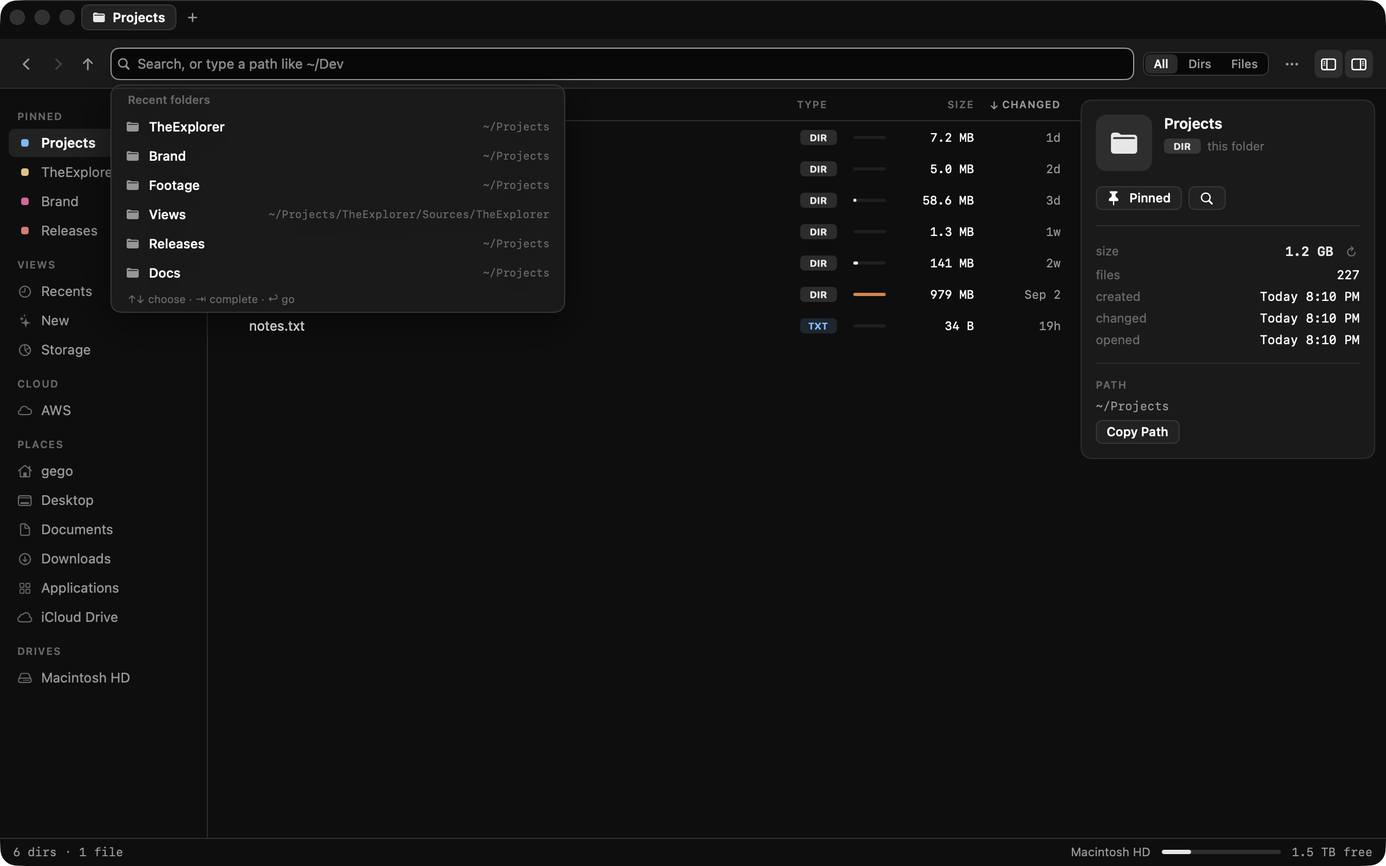
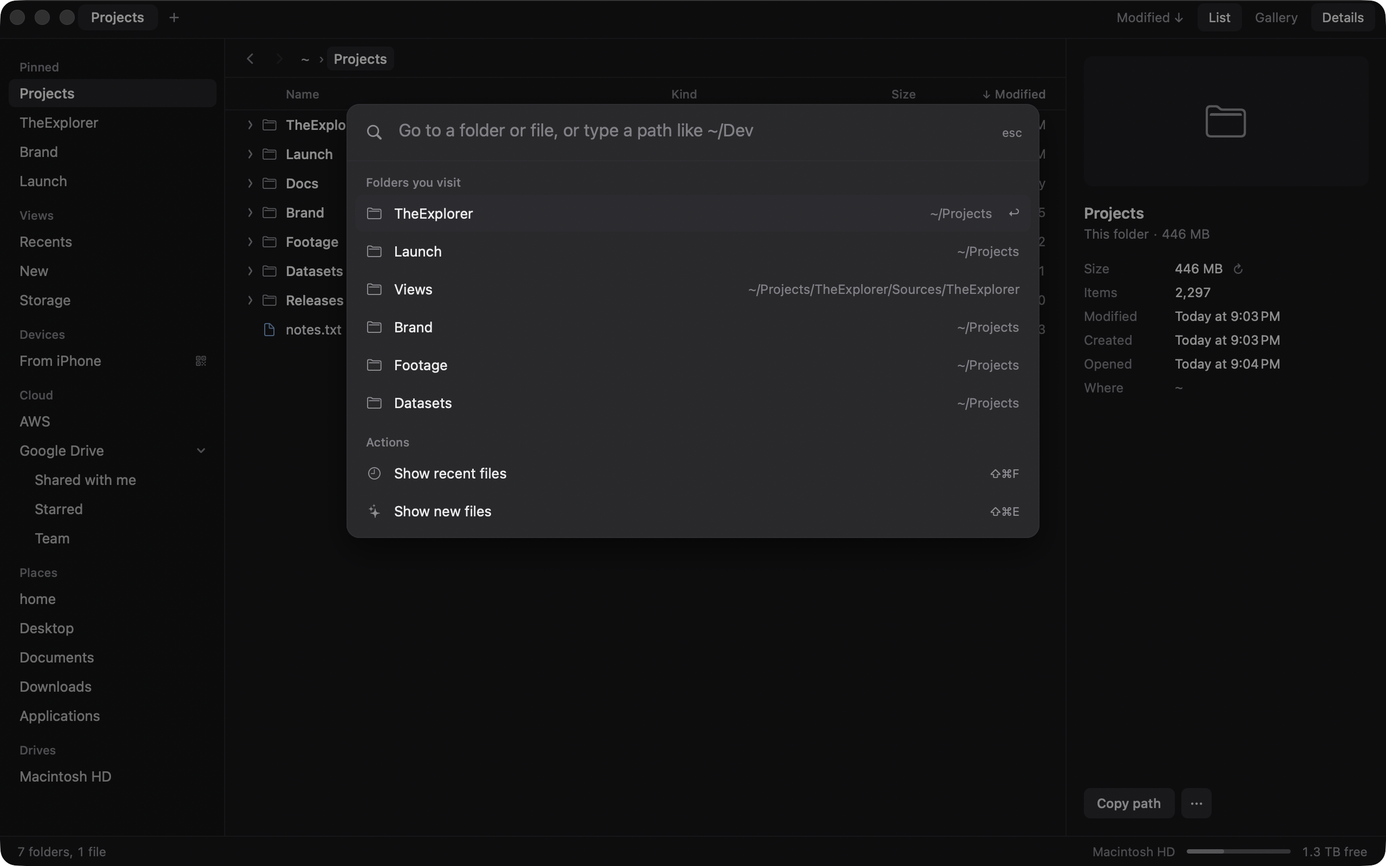
New screenshots, and the README and guide in today's words
Every screenshot retaken in the current design from a demo folder, with
fake S3 and Drive accounts, plus one of Settings › Shortcuts. The text
now says Find and Go anywhere, the path row and the details panel, and
covers video playback with MKV, the active pane, S3 search and changing
shortcuts.

diff --git a/GUIDE.md b/GUIDE.md
@@ -2,13 +2,13 @@
 
 Everything TheExplorer does and how to use it. For building and working on the code, see [DEVELOPMENT.md](DEVELOPMENT.md).
 
-**Contents:** [Folder sizes](#real-folder-sizes) · [Paths and search](#one-bar-for-paths-and-search) · [Gallery](#gallery) · [Previews](#previews-and-zip-archives) · [Storage](#storage-map) · [S3](#s3-like-a-folder) · [Google Drive](#google-drive) · [Actions](#actions) · [Recents and New](#recents-and-new) · [Settings](#settings) · [Everything else](#and-the-rest) · [Permissions](#permissions) · [Keyboard shortcuts](#keyboard-shortcuts)
+**Contents:** [Folder sizes](#real-folder-sizes) · [Find and Go anywhere](#find-and-going-anywhere) · [Gallery](#gallery) · [Previews](#previews-and-zip-archives) · [Storage](#storage-map) · [S3](#s3-like-a-folder) · [Google Drive](#google-drive) · [Actions](#actions) · [Recents and New](#recents-and-new) · [Settings](#settings) · [Everything else](#and-the-rest) · [Permissions](#permissions) · [Keyboard shortcuts](#keyboard-shortcuts)
 
 ## Real folder sizes
 
-Every folder's total size is calculated in the background and drawn as a bar, so the heavy folders stand out. Sizes are kept between launches and stay put until something inside the folder changes (FSEvents says what), so a big folder is only walked again when it needs to be, and at most every few minutes if it never stops changing. Type chips (`DIR`, `SWIFT`, `PDF`, `ZIP`…) tell folders from files at a glance, and you can filter to just folders or just files. Click a folder's arrow (or press →) to expand it in place; double-click still opens it.
+Every folder's total size is calculated in the background, so the heavy folders stand out. Sizes are kept between launches and stay put until something inside the folder changes (FSEvents says what), so a big folder is only walked again when it needs to be, and at most every few minutes if it never stops changing. Each row says what kind of file it is in words, with a small icon tinted by type, and the sort menu (top right) filters to just folders or just files. Click a folder's arrow (or press →) to expand it in place; double-click still opens it.
 
-<img src="docs/screenshots/folder-sizes.png" alt="A folder listing with size bars, type chips and the inspector" width="100%">
+<img src="docs/screenshots/folder-sizes.png" alt="A folder listing with each folder's total size, and the details panel" width="100%">
 
 ## Find, and going anywhere
 
@@ -22,20 +22,20 @@ Search works like a launcher's rather than Spotlight's. TheExplorer keeps its ow
 - **Ranking.** Whole names beat prefixes, prefixes beat word starts, and those beat everything else. Recently opened and recently changed files rise to the top.
 - **Folder words.** Extra words can match the folders a file is in, so `explorer readme` finds the README inside *TheExplorer*.
 - **Recent folders.** TheExplorer learns which folders you work in, the way zoxide does: how often you visit, weighted toward the last hour and day. Passing through a folder doesn't count; staying a moment or opening a file there does. Open ⌘K without typing to see them, or use Go › Recent Folders. They rank higher in search, along with what's in them, so `expl` lands on the project you live in rather than another folder with a similar name, and path completion lists them first.
-- **What's left out.** Library, hidden folders, the insides of apps and packages, dependency folders like `node_modules`, Unity's project caches, and any folder a project's `.gitignore` lists (build output, caches) aren't indexed, though the folders themselves are. Generated hash-named files rank last. To search everything in a folder, go there, show hidden files (⇧⌘.) and search *Here*.
+- **What's left out.** Library, hidden folders, the insides of apps and packages, dependency folders like `node_modules`, Unity's project caches, and any folder a project's `.gitignore` lists (build output, caches) aren't indexed, though the folders themselves are. Generated hash-named files rank last. To search everything in a folder, go there, show hidden files (⇧⌘.) and Find there.
 
 <table>
   <tr>
-    <td width="50%"><img src="docs/screenshots/path-bar.png" alt="Path completion in the command bar"></td>
-    <td width="50%"><img src="docs/screenshots/search.png" alt="Search results with locations"></td>
+    <td width="50%"><img src="docs/screenshots/path-bar.png" alt="Path completion in Go anywhere"></td>
+    <td width="50%"><img src="docs/screenshots/search.png" alt="Find results with where each one is"></td>
   </tr>
   <tr>
     <td align="center"><sub>Jump anywhere with path completion</sub></td>
-    <td align="center"><sub>Search this folder or the whole Mac, typos and all</sub></td>
+    <td align="center"><sub>Find in this folder or the whole Mac, typos and all</sub></td>
   </tr>
 </table>
 
-<img src="docs/screenshots/recent-folders.png" alt="Recent folders listed when the command bar opens" width="100%">
+<img src="docs/screenshots/recent-folders.png" alt="The folders you visit most, listed when Go anywhere opens" width="100%">
 
 ## Gallery
 
@@ -45,7 +45,7 @@ Photos fill their tiles. Videos show how long they are, and folders and other fi
 
 ## Previews and zip archives
 
-Selecting a document, image, PDF, video, audio or code file shows a live preview in the inspector, along with what's inside it:
+Selecting a document, image, PDF, video, audio or code file shows a live preview in the details panel, along with what's inside it:
 - **Images:** dimensions, aspect ratio, color profile, and frame count and length for animations. Camera, lens and exposure appear for photos.
 - **SVGs:** size and viewBox.
 - **Video:** resolution, length, codec (H.264, HEVC, ProRes, AV1…), frame rate, HDR and bitrates.
@@ -65,8 +65,8 @@ For everything else, Space opens Quick Look, and ↑/↓ then step through every
 
 <table>
   <tr>
-    <td width="50%"><img src="docs/screenshots/preview.png" alt="An image previewed in the inspector"></td>
-    <td width="50%"><img src="docs/screenshots/zip.png" alt="A zip archive's contents listed in the inspector"></td>
+    <td width="50%"><img src="docs/screenshots/preview.png" alt="An image previewed in the details panel"></td>
+    <td width="50%"><img src="docs/screenshots/zip.png" alt="A zip archive's contents listed in the details panel"></td>
   </tr>
   <tr>
     <td align="center"><sub>Dimensions, color and more for images</sub></td>
@@ -79,7 +79,7 @@ For everything else, Space opens Quick Look, and ↑/↓ then step through every
 <table>
   <tr>
     <td width="50%"><img src="docs/screenshots/markdown.png" alt="A Markdown file rendered over the window"></td>
-    <td width="50%"><img src="docs/screenshots/json.png" alt="A JSON file as a collapsible tree in the inspector"></td>
+    <td width="50%"><img src="docs/screenshots/json.png" alt="A JSON file as a collapsible tree in the details panel"></td>
   </tr>
   <tr>
     <td align="center"><sub>Markdown, rendered</sub></td>
@@ -103,11 +103,11 @@ Send photos from your iPhone over Wi-Fi, with no cable, iCloud or app to install
 
 ## S3, like a folder
 
-Connect S3 in Settings › Cloud and your buckets show up in the sidebar. Browse them like any folder, with the same list, breadcrumbs, back/forward, filtering and inspector.
+Connect S3 in Settings › Cloud and your buckets show up in the sidebar. Browse them like any folder, with the same list, breadcrumbs, back/forward, filtering and details panel.
 
 - **Upload:** drop files or folders onto an S3 folder, a folder row, a breadcrumb or the sidebar connection. Folders upload with everything in them, and big files upload in parallel parts.
 - **Download:** drag S3 items onto Finder, the desktop, or any folder, tab, sidebar place or breadcrumb in TheExplorer, or right-click › Download. Folders come down with everything in them, and a name that's taken gets a number instead of being overwritten. Double-click opens a file and Space previews it.
-- **Previews:** select a file and the inspector previews it without downloading it: the first 32 KB of text files, a frame from about a second into videos (streamed, so only the start of the video is read), and images and PDFs up to 25 and 20 MB read into memory. Bigger photos show the thumbnail embedded at their start. Space downloads the file for the full Quick Look.
+- **Previews:** select a file and the details panel previews it without downloading it: the first 32 KB of text files, a frame from about a second into videos (streamed, so only the start of the video is read), and images and PDFs up to 25 and 20 MB read into memory. Bigger photos show the thumbnail embedded at their start. Space downloads the file for the full Quick Look.
 - **Share and manage:** right-click to copy an `s3://` URI or a share link that works for 7 days, create folders, or delete.
 - **Progress:** the status bar shows progress with Stop for every transfer.
 - **Credentials:** use your AWS CLI profiles as they are. That includes SSO and assumed roles, through `aws configure export-credentials`. Or add access keys, which are kept in your Keychain.
@@ -131,14 +131,14 @@ Google Drive shows up under Cloud in the sidebar once you've signed in. TheExplo
 - **Browsing:** clicking Google Drive in the sidebar opens My Drive. Under it are Shared with me, Starred and each of your shared drives, a click away; the arrow on the account folds them away. Shortcuts open the folder they point to.
 - **Search:** Find (⌘F) in Drive searches the whole account with Drive's own search. Name matches come back first; files that match only inside follow a moment later.
 - **Upload:** drop files or folders onto a Drive folder, a folder row, a breadcrumb or the sidebar account, or paste. Folders upload with everything in them.
-- **Download:** right-click › Download to Downloads (or the inspector's Download button) saves to your Downloads folder, and Download To… asks where. You can also drag items onto Finder, the desktop or any folder in TheExplorer, or press F5 with a local folder in the other pane. The status bar says where each download went; click it for the list, where Show opens the folder with what arrived selected.
+- **Download:** right-click › Download to Downloads (or the details panel's Download button) saves to your Downloads folder, and Download To… asks where. You can also drag items onto Finder, the desktop or any folder in TheExplorer, or press F5 with a local folder in the other pane. The status bar says where each download went; click it for the list, where Show opens the folder with what arrived selected.
 - **Google Docs, Sheets and Slides** download as Word, Excel and PowerPoint files; right-click › Download As offers PDF, Markdown, CSV and the rest. Opening one opens it in your browser, and Space previews it as a PDF. Forms, Sites and My Maps only open in the browser.
-- **Sharing:** right-click › Share… (or the inspector's Share… button) shows everyone with access. Add people by email as viewers, commenters or editors, with or without an email from Google and a message; change someone's role or remove them; and set general access to Restricted, Anyone with the link, or (for Google Workspace accounts) anyone in your organization. Access that comes from a shared drive is shown but changed in the drive, and files only shared with you can't be changed. Making someone else the owner stays in Drive, since Google confirms it by email.
+- **Sharing:** right-click › Share… (or the details panel's Share… button) shows everyone with access. Add people by email as viewers, commenters or editors, with or without an email from Google and a message; change someone's role or remove them; and set general access to Restricted, Anyone with the link, or (for Google Workspace accounts) anyone in your organization. Access that comes from a shared drive is shown but changed in the drive, and files only shared with you can't be changed. Making someone else the owner stays in Drive, since Google confirms it by email.
 - **Moving and copying:** drag Drive items onto another Drive folder to move them; hold ⌥ to copy. Copy and paste works the same way. Drive can't copy folders, so those move or download instead.
 - **Rename, new folder and trash:** ⇧⌘↩, ⇧⌘N and ⌘⌫ work as they do for local files. Trashed items go to Drive's trash, where you can restore them for 30 days.
 - **Links:** right-click › Copy Link copies the Drive link, which opens the item for anyone it's shared with; Open in Browser opens it at drive.google.com.
-- **Previews:** the inspector shows Drive's own thumbnail for images, videos, PDFs, Docs, Sheets and Slides, and the first 32 KB of text files, without downloading anything.
-- **Storage:** the status bar and inspector show how much of your Drive is used.
+- **Previews:** the details panel shows Drive's own thumbnail for images, videos, PDFs, Docs, Sheets and Slides, and the first 32 KB of text files, without downloading anything.
+- **Storage:** the status bar and details panel show how much of your Drive is used.
 
 The client secret and each account's sign-in are kept in your Keychain. Removing an account in Settings also signs it out with Google, and nothing in your Drive is touched.
 
@@ -171,15 +171,16 @@ Commands run in zsh with your login profile, so Homebrew tools like `ffmpeg` are
 - **Default file browser.** Send other apps' "Show in Finder" and "Reveal" buttons to TheExplorer. Revealed items open in a tab with the items selected. macOS keeps Finder for folders opened from the Dock, Spotlight or other apps and doesn't let any app take that over, so Settings shows that too. For those, turn on **Catch Finder windows**: when Finder opens a folder window, TheExplorer closes it and opens the folder in a tab, with the same files selected. That covers the Dock and its stacks, Spotlight, and apps that open downloads or attachments in Finder. Windows that aren't folders, like AirDrop, stay in Finder. It needs permission to control Finder, which macOS asks for once, and it only works while TheExplorer is running.
 - **Terminal.** Choose what "Open in Terminal" (⌃⌘T) uses: Terminal, cmux, Ghostty, iTerm, Warp or any other app. cmux gets a new workspace in the folder.
 - **Defaults.** Where new windows start, sort order, folders first, hidden files, and New's time range and clutter filter.
+- **Shortcuts.** Change any menu command's keys (see [Keyboard shortcuts](#keyboard-shortcuts)).
 
 <br clear="right">
 
 ## And the rest
 
 - **Tabs.** Browser-style tabs, each with its own folder, history and search. Drop files on a tab to move them there. Tabs come back where you left them after you quit.
-- **Split pane.** ⌘/ splits a tab into two folders side by side, each with its own history. Drag the line between them to resize the panes, or double-click it to even them out. The active pane's header is raised and the other pane is dimmed; the path row, Find, sidebar, inspector and menus all act on the active one. Click a pane or press Tab to switch, and a drop makes the pane it lands in active. F5 copies the selection to the other pane's folder and F6 moves it there (also in the right-click menu), or drag between them. View › Swap Panes and Show Same Folder in Other Pane are there too. ⌘W closes the active pane, and splits (and where you left the divider) come back after you quit.
+- **Split pane.** ⌘/ splits a tab into two folders side by side, each with its own history. Drag the line between them to resize the panes, or double-click it to even them out. The active pane's header is raised and the other pane is dimmed; the path row, Find, sidebar, details panel and menus all act on the active one. Click a pane or press Tab to switch, and a drop makes the pane it lands in active. F5 copies the selection to the other pane's folder and F6 moves it there (also in the right-click menu), or drag between them. View › Swap Panes and Show Same Folder in Other Pane are there too. ⌘W closes the active pane, and splits (and where you left the divider) come back after you quit.
 - **Pinned.** Pin files or folders to the sidebar with ⌘D or by dropping them on the "Pinned" heading. Dropping onto a pinned folder moves items into it.
-- **Git status.** In a repository, changed files get a letter: **M** modified, **A** added, **U** untracked, **R** renamed, red for deleted or conflicted. Folders get a dot when something inside changed, ignored files are dimmed, and the path bar shows the branch, ahead/behind and the number of changes. It updates as you edit, stage, commit or switch branches, including in git worktrees.
+- **Git status.** In a repository, changed files get a letter: **M** modified, **A** added, **U** untracked, **R** renamed, red for deleted or conflicted. Folders get a dot when something inside changed, ignored files are dimmed, and the path row shows the branch, ahead/behind and the number of changes. It updates as you edit, stage, commit or switch branches, including in git worktrees.
 - **Cut, copy and paste.** ⌘X, ⌘C and ⌘V for files, including with Finder in either direction. Cut items fade until you paste them, ⌥⌘V moves whatever was copied, and Duplicate is in the right-click menu. Pasting into an S3 or Google Drive folder uploads.
 - **Compress.** Right-click › Compress (or Edit › Compress) zips the selection beside it, as Finder does: one item becomes "Name.zip", several become "Archive.zip", and an existing archive is never overwritten. The status bar shows it working, and the new archive is selected when it's done.
 - **Undo.** ⌘Z undoes the last move, copy, paste, rename, compress, new item or Move to Trash, from any tab or window.
@@ -199,6 +200,8 @@ For the storage scan to include protected folders like Mail and Messages, grant 
 Selecting a video shows a frame from it in the details panel, with a play button: click it to play the video right there. Videos macOS can't read itself (MKV, which OBS records to, WebM, AVI…) work too when ffmpeg is installed (`brew install ffmpeg`): it gives them their thumbnail, length and details, and to play one TheExplorer re-wraps it into MP4 first, without re-encoding, so that takes about as long as copying the file. Those copies are kept in ~/Library/Caches/TheExplorer/Playable, up to 4 GB.
 
 ## Keyboard shortcuts
+
+<p align="center"><img src="docs/screenshots/shortcuts.png" alt="Settings › Shortcuts" width="460"></p>
 
 These are the defaults. Settings › Shortcuts changes any menu command's keys: click a shortcut and press new ones (esc cancels, ⌫ leaves the command without one). Keys another command had move over, and the page says which command lost them; the arrow beside a changed shortcut puts it back, and Restore Defaults puts them all back. Letters, numbers and symbols need ⌘ or ⌃, so typing still works. Undo, cut, copy, paste, select all, ⌘1–⌘9 for tabs, and the keys the list handles itself (Space, Return, the arrows, Tab) stay as they are.
 
@@ -230,6 +233,6 @@ These are the defaults. Settings › Shortcuts changes any menu command's keys: 
 | Run action 1–9 on the selection | ⌃⌥1…⌃⌥9 |
 | Move to Trash | ⌘⌫ |
 | Undo / redo the last file change (any tab or window) | ⌘Z / ⇧⌘Z |
-| Sidebar / Inspector / Hidden files | ⌥⌘S / ⌘I / ⇧⌘. |
+| Sidebar / Details / Hidden files | ⌥⌘S / ⌘I / ⇧⌘. |
 | Refresh | ⇧⌘R |
 | Settings | ⌘, |

diff --git a/README.md b/README.md
@@ -5,11 +5,11 @@
 # TheExplorer
 
 **A fast, native file explorer for macOS.**<br>
-Real folder sizes, search that forgives typos, previews of everything, git status and S3, in a dense dark UI built for the keyboard.
+Real folder sizes, search that forgives typos, previews of everything, git status, S3 and Google Drive, in a quiet dark UI built for the keyboard.
 
 ![macOS 15+](https://img.shields.io/badge/macOS-15%2B-111111?logo=apple&logoColor=white)
 ![Swift 6](https://img.shields.io/badge/Swift-6-F05138?logo=swift&logoColor=white)
-![SwiftUI](https://img.shields.io/badge/UI-SwiftUI-2E2E2E)
+![AppKit and SwiftUI](https://img.shields.io/badge/UI-AppKit%20%2B%20SwiftUI-2E2E2E)
 
 [Features](#features) · [Install](#install) · [Guide](GUIDE.md) · [Development](DEVELOPMENT.md)
 
@@ -19,42 +19,42 @@ Real folder sizes, search that forgives typos, previews of everything, git statu
 
 ### Git status, right in the list
 
-In a repository, changed files get a letter (**M** modified, **U** untracked…) and folders get a dot when something inside changed. The path bar shows the branch and how many files changed, and code previews live in the inspector.
+In a repository, changed files get a letter (**M** modified, **U** untracked…) and folders get a dot when something inside changed. The path row shows the branch and how many files changed, and code previews show in the details panel.
 
-<img src="docs/screenshots/hero.png" alt="A git project expanded inline, with change badges, the branch chip and a code preview" width="100%">
+<img src="docs/screenshots/hero.png" alt="A git project expanded inline, with change letters, the branch and a code preview" width="100%">
 
 ### Split pane
 
-Press ⌘/ to put two folders side by side, Tab to switch between them, and F5 or F6 to copy or move the selection across.
+Press ⌘/ to put two folders side by side, Tab to switch between them, and F5 or F6 to copy or move the selection across. The pane you're in is raised and the other dimmed, and dropping files into a pane makes it the one you're in.
 
 <img src="docs/screenshots/split.png" alt="Two folders side by side in a split tab" width="100%">
 
 ### Real folder sizes
 
-Every folder's total size is worked out in the background and drawn as a bar, so the heavy ones stand out. Click a folder's arrow to expand it in place.
+Every folder's total size is worked out in the background, so the heavy ones stand out. Click a folder's arrow to expand it in place.
 
-<img src="docs/screenshots/folder-sizes.png" alt="A folder listing with size bars and type chips" width="100%">
+<img src="docs/screenshots/folder-sizes.png" alt="A folder listing with each folder's total size, and the details panel" width="100%">
 
-### Search that forgives typos
+### Find, and it forgives typos
 
-TheExplorer keeps its own live index instead of using Spotlight, so results update in milliseconds as you type. Matching is fuzzy and forgives slips: here `serch` finds the Search files.
+⌘F turns the path row into a search field and filters the list right there: the folder and everything in it, your whole Mac, Google Drive or an S3 bucket. On your Mac, TheExplorer keeps its own live index instead of using Spotlight, so results update in milliseconds as you type. Matching is fuzzy and forgives slips: here `serch` finds the Search files.
 
-<img src="docs/screenshots/search.png" alt="Search results for the misspelled query serch" width="100%">
+<img src="docs/screenshots/search.png" alt="Find results for the misspelled query serch" width="100%">
 
-### Recent folders and path jumping
+### Go anywhere
 
-Open ⌘K without typing to see the folders you use most, or start with `~` or `/` to jump to a path with completion. Folders you visit often rank first everywhere.
+⌘K jumps somewhere: open it to see the folders you use most, type to find folders and files across your Mac, or start with `~` or `/` to jump to a path with completion. Folders you visit often rank first everywhere.
 
 <table>
   <tr>
-    <td width="50%"><img src="docs/screenshots/recent-folders.png" alt="Recent folders in the command bar"></td>
-    <td width="50%"><img src="docs/screenshots/path-bar.png" alt="Path completion in the command bar"></td>
+    <td width="50%"><img src="docs/screenshots/recent-folders.png" alt="The folders you visit most, in Go anywhere"></td>
+    <td width="50%"><img src="docs/screenshots/path-bar.png" alt="Path completion in Go anywhere"></td>
   </tr>
 </table>
 
 ### Previews with the details
 
-Select a file to preview it, with what's inside: dimensions and color for images, length, resolution and codec for video, and pages, lines or fonts for everything else.
+Select a file to preview it, with what's inside: dimensions and color for images, length, resolution and codec for video, and pages, lines or fonts for everything else. Videos play right there, and with ffmpeg installed so do the ones macOS can't read, like MKV and WebM.
 
 <table>
   <tr>
@@ -70,7 +70,7 @@ Markdown shows formatted, CSVs as a table, JSON as a tree you can fold and copy 
 <table>
   <tr>
     <td width="50%"><img src="docs/screenshots/markdown.png" alt="A Markdown file rendered over the window"></td>
-    <td width="50%"><img src="docs/screenshots/json.png" alt="A JSON file as a collapsible tree in the inspector"></td>
+    <td width="50%"><img src="docs/screenshots/json.png" alt="A JSON file as a collapsible tree in the details panel"></td>
   </tr>
 </table>
 
@@ -78,7 +78,7 @@ Markdown shows formatted, CSVs as a table, JSON as a tree you can fold and copy 
 
 Selecting a zip lists everything inside as a tree with sizes, instantly, even for huge archives. Drag files out to unpack just those.
 
-<img src="docs/screenshots/zip.png" alt="A zip archive's contents listed in the inspector" width="100%">
+<img src="docs/screenshots/zip.png" alt="A zip archive's contents listed in the details panel" width="100%">
 
 ### Storage map
 
@@ -88,9 +88,9 @@ Scan any folder or the whole Mac and drill into a treemap to see what's using yo
 
 ### S3, like a folder
 
-Browse your S3 buckets in the same list as your files. Drop files on a bucket to upload, and drag items to Finder or the desktop to download.
+Browse your S3 buckets in the same list as your files, or as a gallery. Drop files on a bucket to upload, and drag items to Finder or the desktop to download. Find searches every file in a bucket, even millions of them.
 
-<img src="docs/screenshots/s3.png" alt="Browsing an S3 bucket" width="100%">
+<img src="docs/screenshots/s3.png" alt="An S3 bucket's videos as a gallery, with one selected" width="100%">
 
 ### Google Drive, without Google's app
 
@@ -108,6 +108,12 @@ Turn shell commands you run on files, like an ffmpeg conversion, into right-clic
     <td width="50%"><img src="docs/screenshots/open-with.png" alt="Default apps for file types in Settings"></td>
   </tr>
 </table>
+
+### Your shortcuts
+
+Every menu command's keys can be changed in Settings: click a shortcut and press new keys. Keys another command had move over, and the page says which one lost them.
+
+<p align="center"><img src="docs/screenshots/shortcuts.png" alt="Settings › Shortcuts" width="520"></p>
 
 ### And the basics, done right
 
